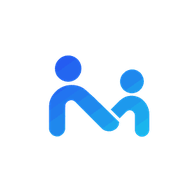
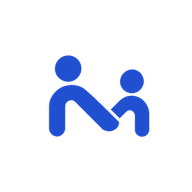
style: flat #1E4FD1 brand color, drop gradient

Changed region(s): [[0.25, 0.2812, 0.7812, 0.7188]]

diff --git a/src/app/api/download/route.ts b/src/app/api/download/route.ts
@@ -1,5 +1,4 @@
 import { NextResponse } from "next/server";
-import { createServerSupabaseClient } from "@/lib/supabaseServer";
 import { R2_PUBLIC_URL } from "@/lib/r2";
 
 export const maxDuration = 60;
@@ -32,21 +31,24 @@ function isAllowedMediaUrl(raw: string): boolean {
 // instead of fetching R2/Supabase directly from the browser, for two reasons:
 // 1) A JS "fetch → blob → <a download>" depends on the media host sending
 //    permissive CORS headers, which R2 doesn't for plain GETs.
-// 2) More importantly, inside the Android WebView this app is wrapped in,
-//    that blob/anchor trick is handled inconsistently — some file types get
-//    silently opened as a page instead of downloaded, and the in-app router
-//    doesn't recognize that navigation, so the back button reloads the
-//    whole app instead of returning to the feed.
+// 2) Inside the Android WebView this app is wrapped in, that blob/anchor
+//    trick was handled inconsistently per file type — images opened as a
+//    page instead of downloading, and the in-app router didn't recognize
+//    that navigation, so the back button reloaded the whole app.
 // A same-origin response with Content-Disposition: attachment is what
-// Android's WebView.setDownloadListener is actually built to catch, so this
-// hands off to the OS's normal download flow for every file type the same way.
+// Android's WebView.setDownloadListener is built to catch, handing off to
+// the OS's own DownloadManager.
+//
+// IMPORTANT: this route has NO login check, on purpose. DownloadManager
+// makes its own separate network request — it does not carry the WebView's
+// session cookie — so a route that required being signed in always failed
+// here with 401, which is exactly the "Download failed" notification this
+// fixes. That's not a new privacy hole: post and story media is already
+// fully public with no auth at its real R2/Supabase URL (that's how the
+// feed's plain <img>/<video> tags render it), so this route only ever
+// re-serves bytes anyone could already fetch directly. The allow-list above
+// keeps it from being used as a proxy for anything else.
 export async function GET(request: Request) {
-  const supabase = await createServerSupabaseClient();
-  const { data: { user } } = await supabase.auth.getUser();
-  if (!user) {
-    return NextResponse.json({ error: "Not signed in" }, { status: 401 });
-  }
-
   const { searchParams } = new URL(request.url);
   const url = searchParams.get("url");
   const name = searchParams.get("name") || "download";

diff --git a/tailwind.config.ts b/tailwind.config.ts
@@ -6,10 +6,14 @@ const config: Config = {
   theme: {
     extend: {
       colors: {
-        // Pictogram brand — same gradient family as the logo mark
+        // Pictogram brand — one flat blue, no gradient. `from`/`to` are kept
+        // as the same value (rather than removed) because ~140 existing
+        // class names across the app reference text-brand-from,
+        // border-brand-from, ring-brand-from and bg-brand-from directly;
+        // this is the one-line way to re-skin all of them at once.
         brand: {
-          from: "#2547F4", // deep indigo-blue
-          to: "#17C3EC",   // cyan
+          from: "#1E4FD1",
+          to: "#1E4FD1",
         },
         surface: {
           light: "#FFFFFF",
@@ -28,7 +32,10 @@ const config: Config = {
         body: ["var(--font-inter)", "sans-serif"],
       },
       backgroundImage: {
-        "brand-gradient": "linear-gradient(135deg, #2547F4 0%, #17C3EC 100%)",
+        // Kept as the same "bg-brand-gradient" utility (used in ~90 places)
+        // so nothing needs to change at the call sites, but both stops are
+        // now the same color, so it renders as flat #1E4FD1 everywhere.
+        "brand-gradient": "linear-gradient(135deg, #1E4FD1 0%, #1E4FD1 100%)",
       },
       borderRadius: {
         xl2: "1.25rem",

diff --git a/src/components/VerifiedBadge.tsx b/src/components/VerifiedBadge.tsx
@@ -11,7 +11,7 @@ export default function VerifiedBadge({ size = 14 }: { size?: number }) {
       {/* 8-point scalloped seal */}
       <path
         d="M12 1.5l2.34 1.87 2.94-.53 1.14 2.76 2.76 1.14-.53 2.94L22.5 12l-1.85 2.32.53 2.94-2.76 1.14-1.14 2.76-2.94-.53L12 22.5l-2.34-1.87-2.94.53-1.14-2.76-2.76-1.14.53-2.94L1.5 12l1.85-2.32-.53-2.94 2.76-1.14 1.14-2.76 2.94.53z"
-        fill="#2547F4"
+        fill="#1E4FD1"
       />
       <path
         d="M8.5 12.2l2.4 2.4 4.6-5.4"

diff --git a/src/app/globals.css b/src/app/globals.css
@@ -22,7 +22,7 @@ html.dark {
 
   /* visible keyboard focus everywhere — accessibility floor */
   :focus-visible {
-    outline: 2px solid #17C3EC;
+    outline: 2px solid #1E4FD1;
     outline-offset: 2px;
   }
 }
